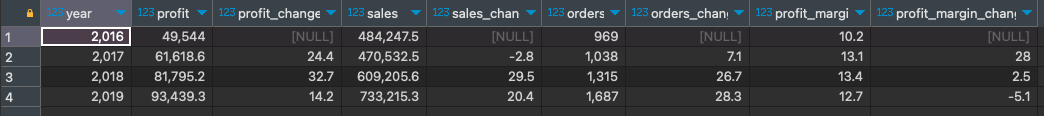
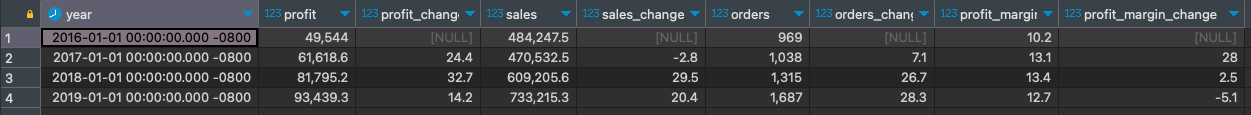
LAG insight

diff --git a/DE-101/Module2/readme.md b/DE-101/Module2/readme.md
@@ -71,7 +71,7 @@ order by
 --Yearly KPI change, change is shown in percent
 
 SELECT
-	year,
+	date_trunc('year', order_date) as year,
 	ROUND(SUM(profit), 1) AS profit,
 	ROUND((SUM(profit) / LAG(SUM(profit)) OVER w - 1) * 100, 1) AS profit_change,
 	ROUND(SUM(sales), 1) AS sales,
@@ -81,18 +81,10 @@ SELECT
 	ROUND(SUM(profit)/SUM(sales) *100, 1) AS profit_margin,
 	ROUND(((SUM(profit)/SUM(sales)) / LAG(SUM(profit)/SUM(sales)) OVER w - 1) * 100, 1) AS profit_margin_change
 FROM
-    (
-	SELECT
-        date_part('year', order_date) AS year,
-        profit,
-        sales,
-        order_id
-    FROM
         public.orders
-    ) subquery
 GROUP BY
     year
-WINDOW w AS (ORDER BY year)
+WINDOW w AS (ORDER BY date_trunc('year', order_date))
 ORDER BY
     year;
 ```
@@ -227,7 +219,7 @@ limit
 
 ### 3.1 Баги Google Looker Studio на момент конца мая 2023
 #### 3.1.1 Баг в drill down дат при использовании blended data
- Судя по тому что я нашла, этот баг тянется ещё из 2021 года (при этом, на видео ребят Left Join, в предыдущей версии Лукера этого бага не видно). При попытке изменить грануляцию данных, меняются только метки по оси Х, а данные так и остаются по дням. При этом, если использовать просто один источник данных, всё работает норм. Пришлось прибегнуть к workaround: на уровне источника данных преобразовала дату в year-month и текстовый формат (изменила SQL запрос). Вроде бы есть чуть более изящное решение, но мне стало лень проверять, насколько оно работает. Сейчас метки графика динамики не оптимальной читаемости. 
+ Судя по тому, что я нашла, этот баг тянется ещё из 2021 года (при этом, на видео ребят Left Join, в предыдущей версии Лукера этого бага не видно). При попытке изменить грануляцию данных, меняются только метки по оси Х, а данные так и остаются по дням. При этом, если использовать просто один источник данных, всё работает норм. Пришлось прибегнуть к workaround: на уровне источника данных преобразовала дату в year-month и текстовый формат (изменила SQL запрос). Вроде бы есть чуть более изящное решение, но мне стало лень проверять, насколько оно работает. Сейчас метки графика динамики не оптимальной читаемости. 
 
 #### 3.1.2 Нет возможности редактировать стиль optional metric
 Точнее, это даже недоработка интерфейса: у optional metric нет возможности редактировать стиль, соответственно, второстепенная метрика выглядит сильно менее читабельной. Особенно в графике динамики продаж. Там еле видно точку текущего месяца (но она есть))
